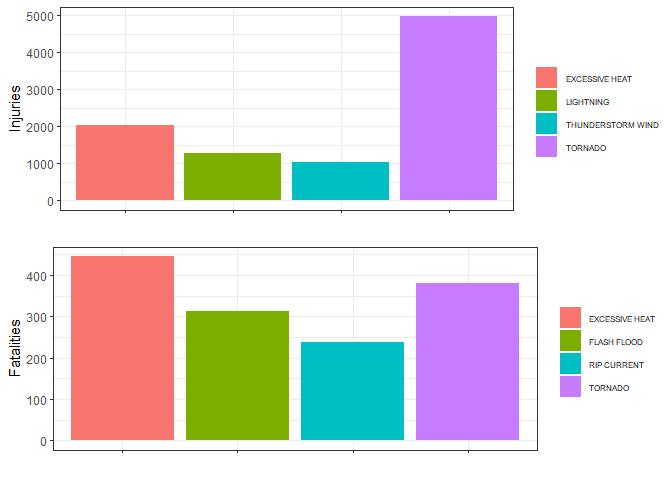
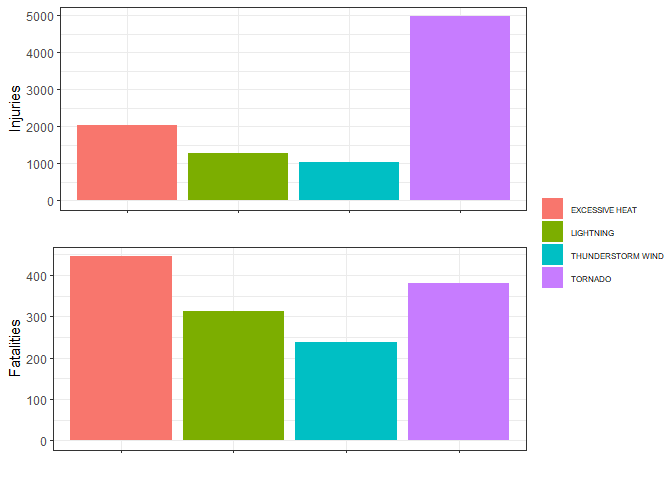
Final plots correction. Now we are ready to go!!!

diff --git a/NOAAanalysis.md b/NOAAanalysis.md
@@ -42,7 +42,7 @@ Sys.setlocale('LC_ALL','English')
 ```
 
 Now start by creating a directory to store data and figures, download the data from the web then load into R.  
-Also, create a text file which states the url and time/timezone of download.  
+While doing it, create a text file which states the url and time/timezone of download.  
 
 
 ```r
@@ -107,7 +107,7 @@ NOAAdata0510 <- NOAAdata0510 %>%
         mutate(STATE = as.factor(STATE), COUNTY = as.factor(COUNTY), EVTYPE = as.factor(EVTYPE))
 ```
 
-To deal with property and crop damage properly, we need a function to turn their values into actual amount considering their units.
+To deal with property and crop damage properly, we need a function to turn their data set values into actual amount of damage considering their unit of magnitude.
 
 
 ```r
@@ -124,7 +124,7 @@ actualamount <-function(cost, unit){
 }
 ```
 
-Now use this function to transform those values to proper use.  
+Now use this function to transform data set values into actual amount.  
 
 
 ```r
@@ -139,7 +139,7 @@ NOAAdata0510 <- NOAAdata0510 %>%
 
 #### Across the United States, which types of events are most harmful with respect to population health?  
 
-First, a general look at the United States at total injuries and fatalities for each type of event during the period from 2005 to 2010. Bar plots are appropriate to see this.  
+For that, we need a general look at the United States' total injuries and fatalities for each type of event during the period from 2005 to 2010. Bar plots are appropriate to see this, but it is necessary to retrieve that information from the data set first.  
 
 
 ```r
@@ -151,64 +151,79 @@ health <- NOAAdata0510 %>% group_by(EVTYPE) %>%
 ## `summarise()` ungrouping output (override with `.groups` argument)
 ```
 
+Select the 15 highest cases for each outcome and organize data for plotting.
+
+
 ```r
-forplot1 <- health %>% arrange(desc(Injuries)) %>% head(n = 4)
-forplot2 <- health %>% arrange(desc(Fatalities)) %>% head(n = 4)
+forinjuries <- health %>% select(EVTYPE, Cases = Injuries) %>%
+  arrange(desc(Cases)) %>% 
+  head(n = 15) %>% mutate(plot = 'Injuries')
+forfatalities <- health %>% select(EVTYPE, Cases = Fatalities) %>%
+  arrange(desc(Cases)) %>% 
+  head(n = 15) %>% mutate(plot = 'Fatalities')
 
-plt1<- ggplot(forplot1, aes(fill = EVTYPE,x = EVTYPE, y = Injuries)) +
-  geom_col() + theme_bw() +
-  scale_x_discrete(labels=NULL) + labs(x = '') +
-  theme(legend.text = element_text(size=6),legend.title = element_blank())   
-  
-
-plt2<- ggplot(forplot2, aes(fill = EVTYPE,x = EVTYPE, y = Fatalities)) +
-  geom_col() + theme_bw() +
-  scale_x_discrete(labels=NULL) + labs(x = '') +
-  theme(legend.text = element_text(size=6),legend.title = element_blank())
-
-ggarrange(plt1, plt2, nrow = 2,ncol=1, legend = "right")
+healthplot <- rbind(forinjuries,forfatalities)
 ```
 
-![](NOAAanalysis_files/figure-html/unnamed-chunk-8-1.png)<!-- -->
+Now, plot.  
 
-It can be seen excessive heat and tornadoes are the ones to make more injuries and to have more fatalities. Some attention must be given to flash floods too, which are very deadly.  
+
+```r
+plt1<- ggplot(healthplot, aes(fill = EVTYPE,x = EVTYPE, y = Cases)) +
+  geom_col() + theme_bw() + facet_wrap(. ~ plot,nrow = 2,scales = 'free_y') +
+  scale_x_discrete(labels=NULL) + labs(x = '') +
+  theme(legend.text = element_text(size=6),
+        legend.title = element_blank(), legend.position = 'top')
+print(plt1)
+```
+
+![](NOAAanalysis_files/figure-html/unnamed-chunk-10-1.png)<!-- -->
+
+It can be seen **excessive heat** and **tornadoes** are the ones to make more injuries and to have more fatalities. Some attention must be given to **flash floods** events too, which were very deadly during the period, even though didn't have much injuries.  
 
 #### Across the United States, which types of events have the greatest economic consequences?  
 
-A general look at the United States at total damage amount for properties and crops for each type of event during the period from 2005 to 2010. Bar plots are appropriate to see this.  
+For that we need a general look at the United States' total amount of damage for properties and crops for each type of event during the period from 2005 to 2010. Bar plots are appropriate to see this, but it is necessary to retrieve that information from the data set first.  
 
 
 ```r
 dmg <- NOAAdata0510 %>% group_by(EVTYPE) %>%
-        summarise(Properties = sum(prop), Crops = sum(crop) )  
+        summarise(Properties = sum(prop), Crops = sum(crop) )
 ```
 
 ```
 ## `summarise()` ungrouping output (override with `.groups` argument)
 ```
 
+Select the 10 highest amount of damage for each damaged type and organize data for plotting.  
+
+
 ```r
-forplot5 <- dmg %>% arrange(desc(Properties)) %>% head(n = 2)
-forplot6 <- dmg %>% arrange(desc(Crops)) %>% head(n = 2)
+forproperties <- dmg %>% select(EVTYPE, Amount = Properties) %>%
+  arrange(desc(Amount)) %>% 
+  head(n = 10) %>% mutate(plot = 'Damaged properties')
+forcrop <- dmg %>% select(EVTYPE, Amount = Crops) %>%
+  arrange(desc(Amount)) %>% 
+  head(n = 10) %>% mutate(plot = 'Damaged crops')
 
-plt5<-ggplot(forplot5, aes(fill = EVTYPE,x = EVTYPE, y = Properties)) +
-  geom_col() + theme_bw() + scale_x_discrete(labels=NULL) + 
-  labs(x = '', y ='Property damage in dollars') +
-  theme(legend.text = element_text(size=6),legend.title = element_blank()) 
-  
-
-
-plt6<-ggplot(forplot6, aes(fill = EVTYPE,x = EVTYPE, y = Crops)) +
-  geom_col() + theme_bw() + scale_x_discrete(labels=NULL) + 
-  labs(x = '', y ='Crop damage in dollars') +
-  theme(legend.text = element_text(size=6),legend.title = element_blank())
-
-ggarrange(plt5, plt6,nrow = 2, legend = "right")
+dmgplot <- rbind(forproperties,forcrop)
 ```
 
-![](NOAAanalysis_files/figure-html/unnamed-chunk-9-1.png)<!-- -->
+Now, plot.
 
-It can be seen floods, hurricanes and drought are the ones to make more property and crop damage.
+
+```r
+plt2 <- ggplot(dmgplot, aes(fill = EVTYPE,x = EVTYPE, y = Amount/1e6)) +
+  geom_col() + theme_bw() + facet_wrap(. ~ plot,nrow = 2,scales = 'free_y') +
+  scale_x_discrete(labels=NULL) + labs(x = '',y = 'Amount of damage (in millions of $)') +
+  theme(legend.text = element_text(size=6),
+        legend.title = element_blank(), legend.position = 'top')
+print(plt2)
+```
+
+![](NOAAanalysis_files/figure-html/unnamed-chunk-13-1.png)<!-- -->
+
+It can be seen **floods** have cost an absurd amount to properties, getting higher than 120 **billion** dollars during the period. Crops have seen a huge amount of damage due to this type too, but **drought** is the event that cost the most to crops during this period, getting as high as 4 **billion**. 
 
 
 
